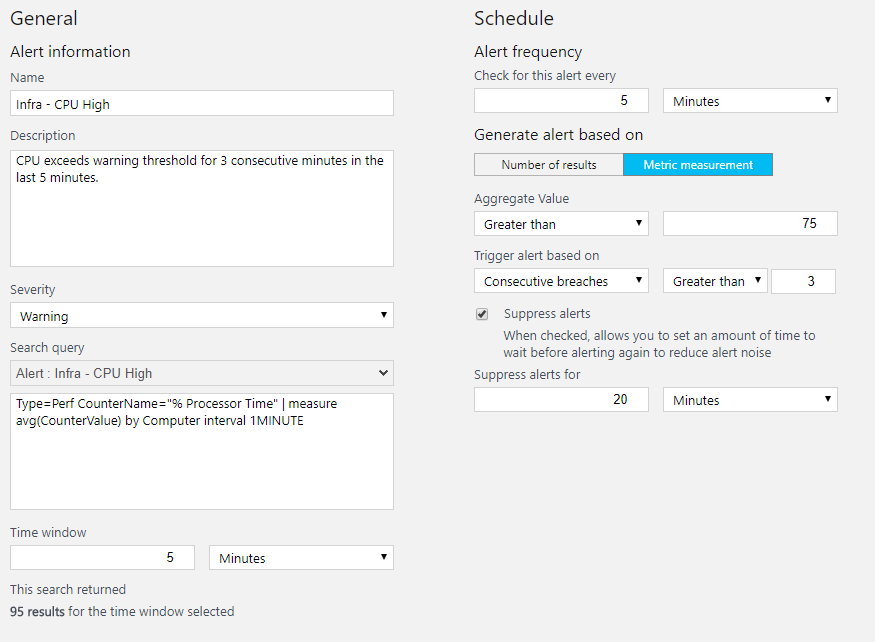
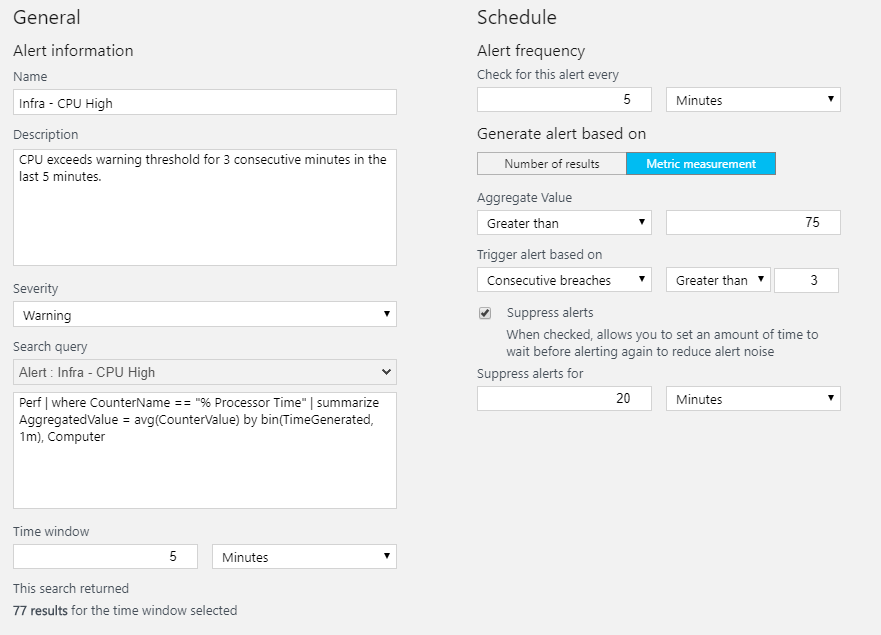
Update to new query language

diff --git a/_posts/2017-08-06-Building-better-OMS-alerts-with-function-apps.md b/_posts/2017-08-06-Building-better-OMS-alerts-with-function-apps.md
@@ -22,7 +22,9 @@ Getting all these configured is beyond the scope of this blog post.
 We're going to configure an OMS alert to fire when CPU utilisation is high.  The values I'm usingn for thresholds/timings are useful in my current environment and might not be right for you - modify as required.  The query we'll base our alert off is:
 
 ```
-Type=Perf CounterName="% Processor Time" | measure avg(CounterValue) by Computer interval 1MINUTE
+Perf 
+| where CounterName == "% Processor Time" 
+| summarize AggregatedValue = avg(CounterValue) by bin(TimeGenerated, 1m), Computer
 ```
 
 If you look at this query in Log Analytics you'll see it returns the per-minute CPU utilisation for every machine linked to your OMS account.  We're going to set our alert to evaluate this query every 5 minutes, and look at the prior 5 minutes of data.  In our environment we want to know any time a single computer exceeds our threshold for CPU % for 3 consecutive minutes.  The thresholds we've established to trigger a warning is 75%.  We also want to suppress any alerts following a trigger for 20 minutes (to prevent spam).  In the OMS alert editor that looks like this:
